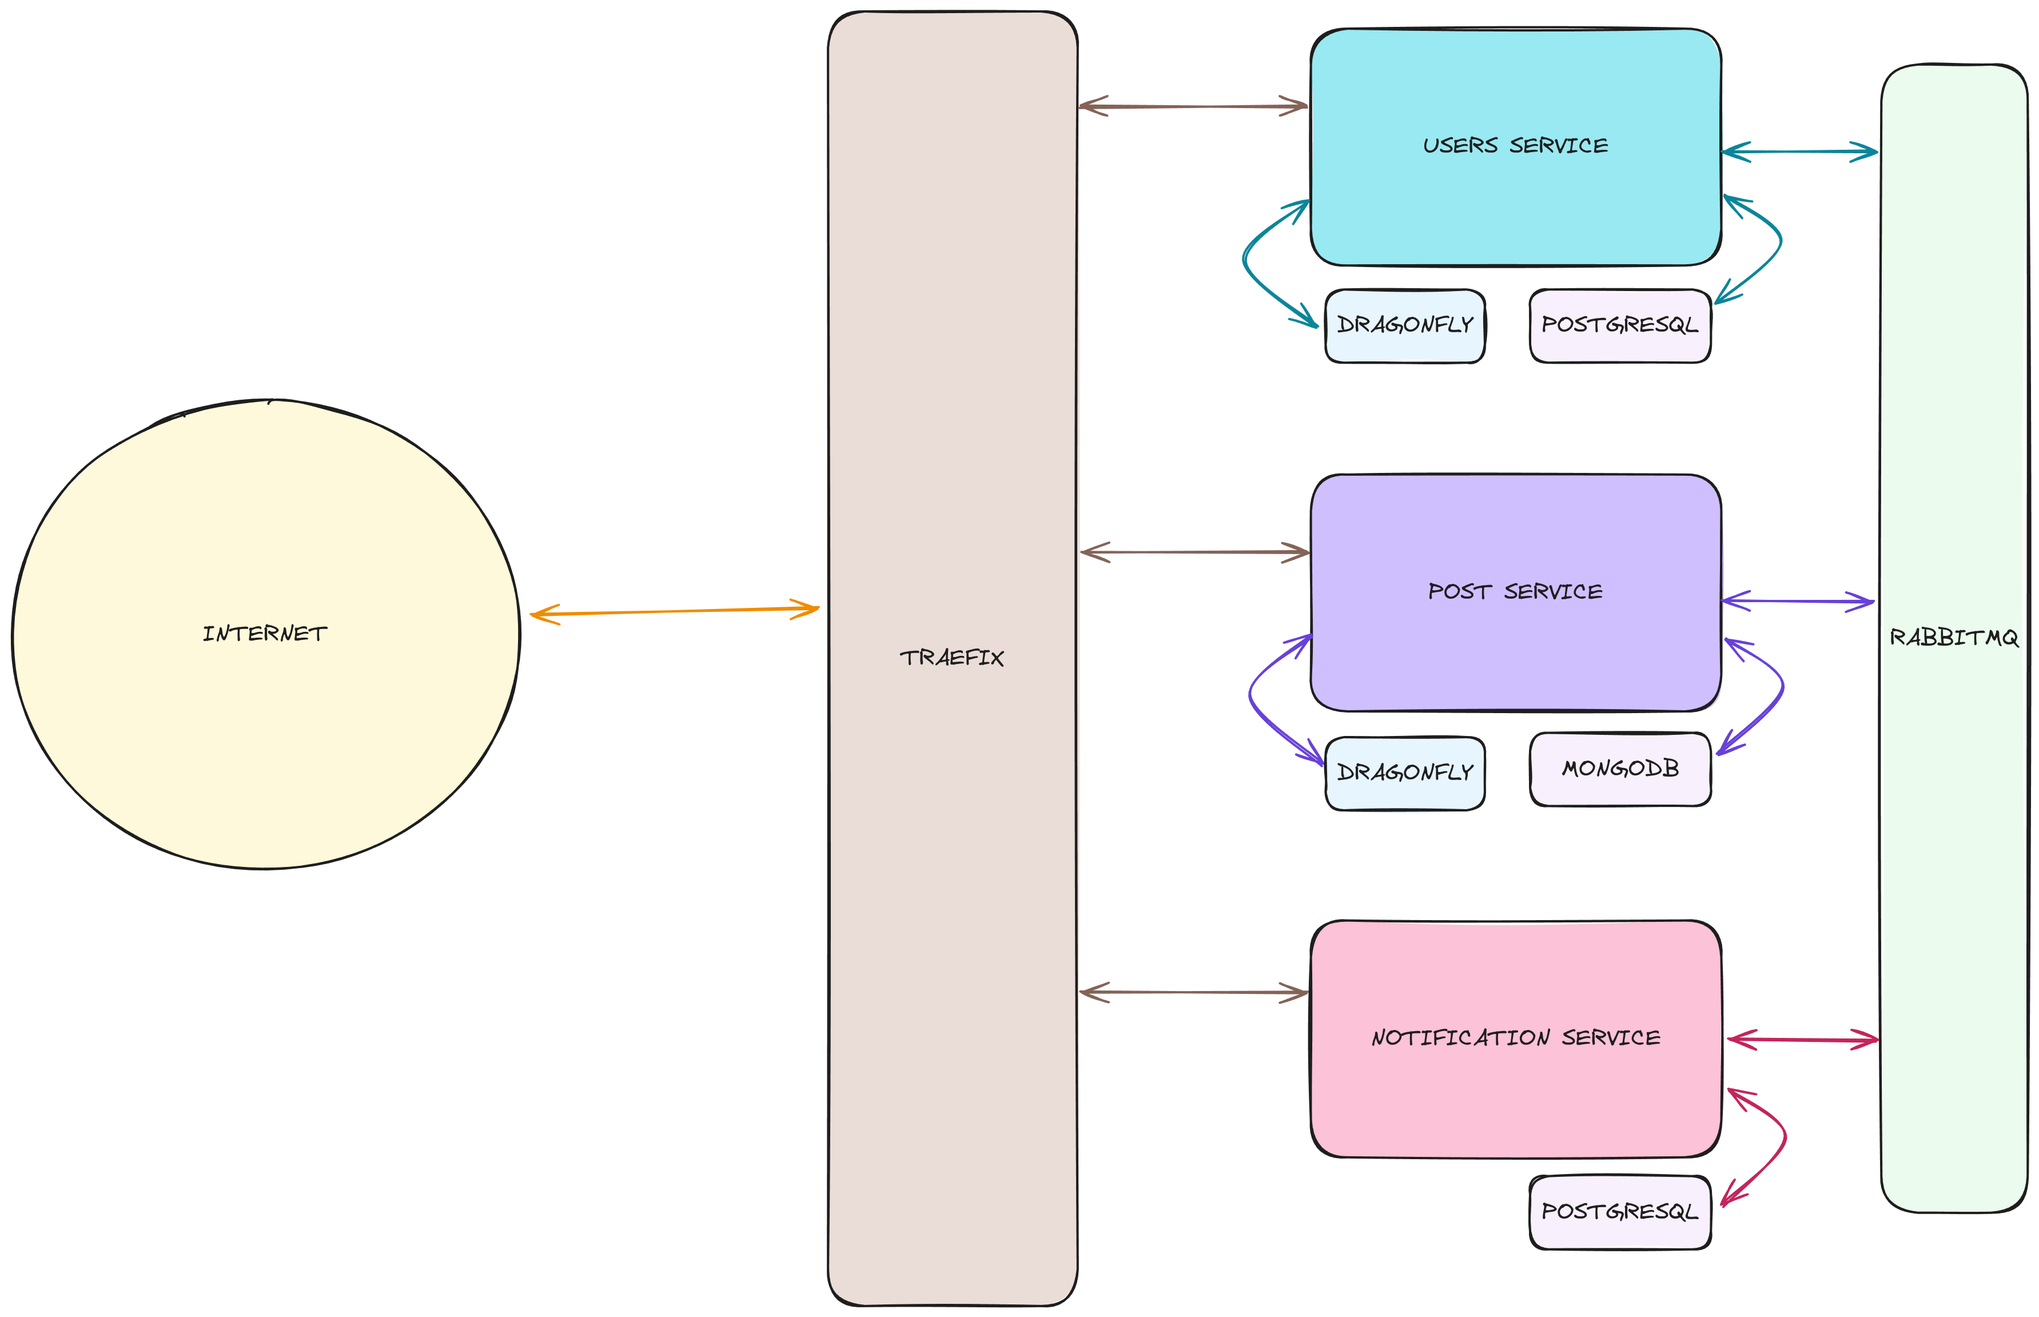
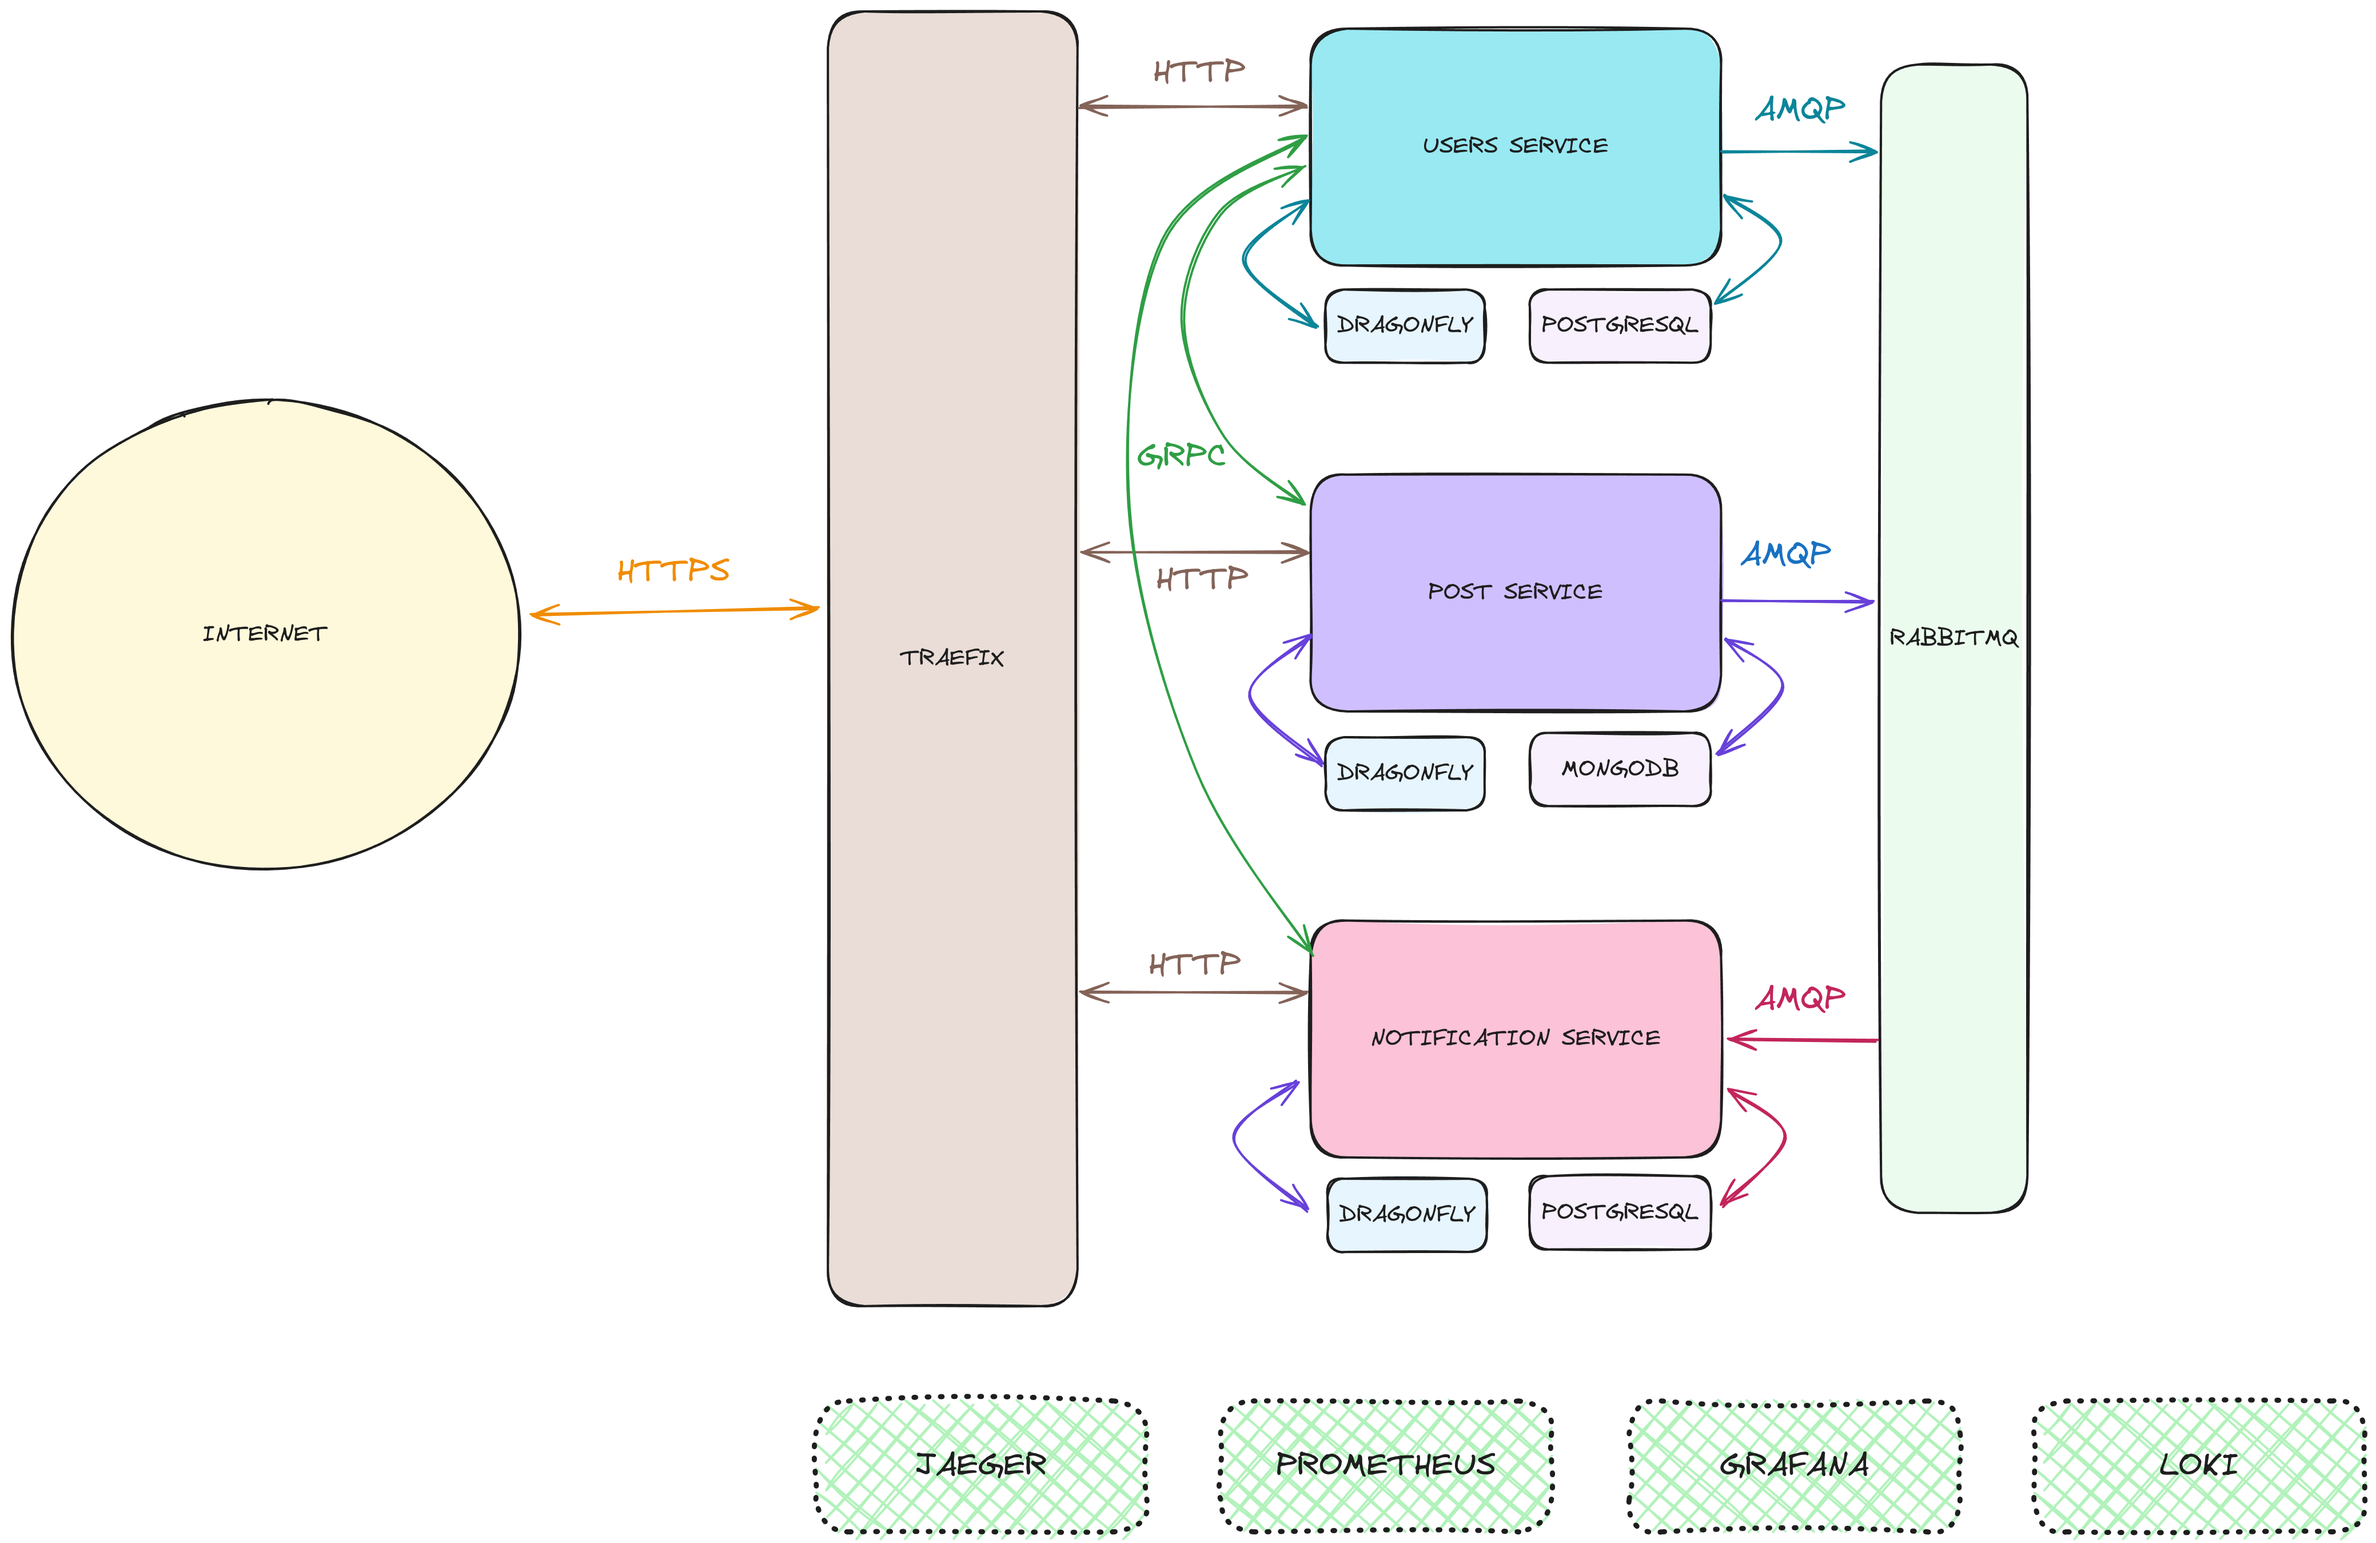
docs: Update system design image
Remove orchestration docs and update system
design images

diff --git a/docs/system-design.md b/docs/system-design.md
@@ -7,26 +7,28 @@ The system will be designed as a collection of independent microservices that co
 - **Notification Service**: Generates and delivers real-time notifications to users.
 - **Message Broker**: Utilizes RabbitMQ for asynchronous communication between services.
 
-## 1. User Service
+## 1. User Service(PostgreSQL)
 
 - Manages user accounts, profiles, and preferences (including notification settings).
 - Has a cache to store user information for faster retrieval.
+- Emits events to the message broker for user follows.
 
-## 2. Post Service
+## 2. Post Service(MongoDB)
 
 - Handles creation, storage, retrieval, and deletion of posts and comments.
 - Has a cache to store post information for faster retrieval.
+- Emits events to the message broker for new posts and comments.
+- Connects to the User Service via gRPC for authentication and user information.
 
-## 3. Notification Service
+## 3. Notification Service(PostgreSQL)
 
 - Generates and delivers real-time notifications to users based on their preferences and activity.
 - Consumes messages from message brokers published by User Service (user follows) and Post Service (new post/comment).
-- Uses web sockets or server-sent events (SSE) for real-time delivery.
+- Uses web sockets for real-time delivery.
+- Connects to the User Service via gRPC for user information.
 
-## 4. Message Broker (Kafka/RabbitMQ)
+## 4. Message Broker (RabbitMQ)
 
-- Enables asynchronous communication between microservices.
-  User Service and Post Service publish events to the message broker.
-- Notification Service subscribes to relevant topics in the message broker to receive updates.
+- Enables asynchronous communication between microservices. User Service and Post Service publish events to the message broker, and the Notification Service subscribes to relevant topics to receive updates.
 
 ![System Design](img/design/system.png)
